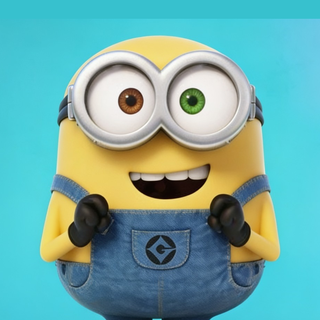
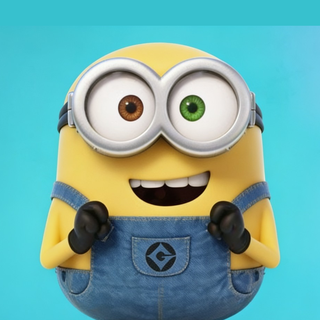
Shift Rob portrait a bit lower again.

Changed region(s): [[0.125, 0.0938, 0.875, 1.0], [0.8438, 0.0625, 1.0, 0.0938]]

diff --git a/index.html b/index.html
@@ -294,7 +294,7 @@
               </p>
             </article>
             <article class="character-window location-baltimore-only">
-              <img src="./assets/characters/goggle-pal.png?v=bust8" alt="The Goggle Pal (Rob) character portrait" />
+              <img src="./assets/characters/goggle-pal.png?v=bust9" alt="The Goggle Pal (Rob) character portrait" />
               <h3>The Goggle Pal (Rob)</h3>
               <p>
                 The shorter, extra-excited sidekick. Rob brings giggles, hugs, and nonstop party energy
